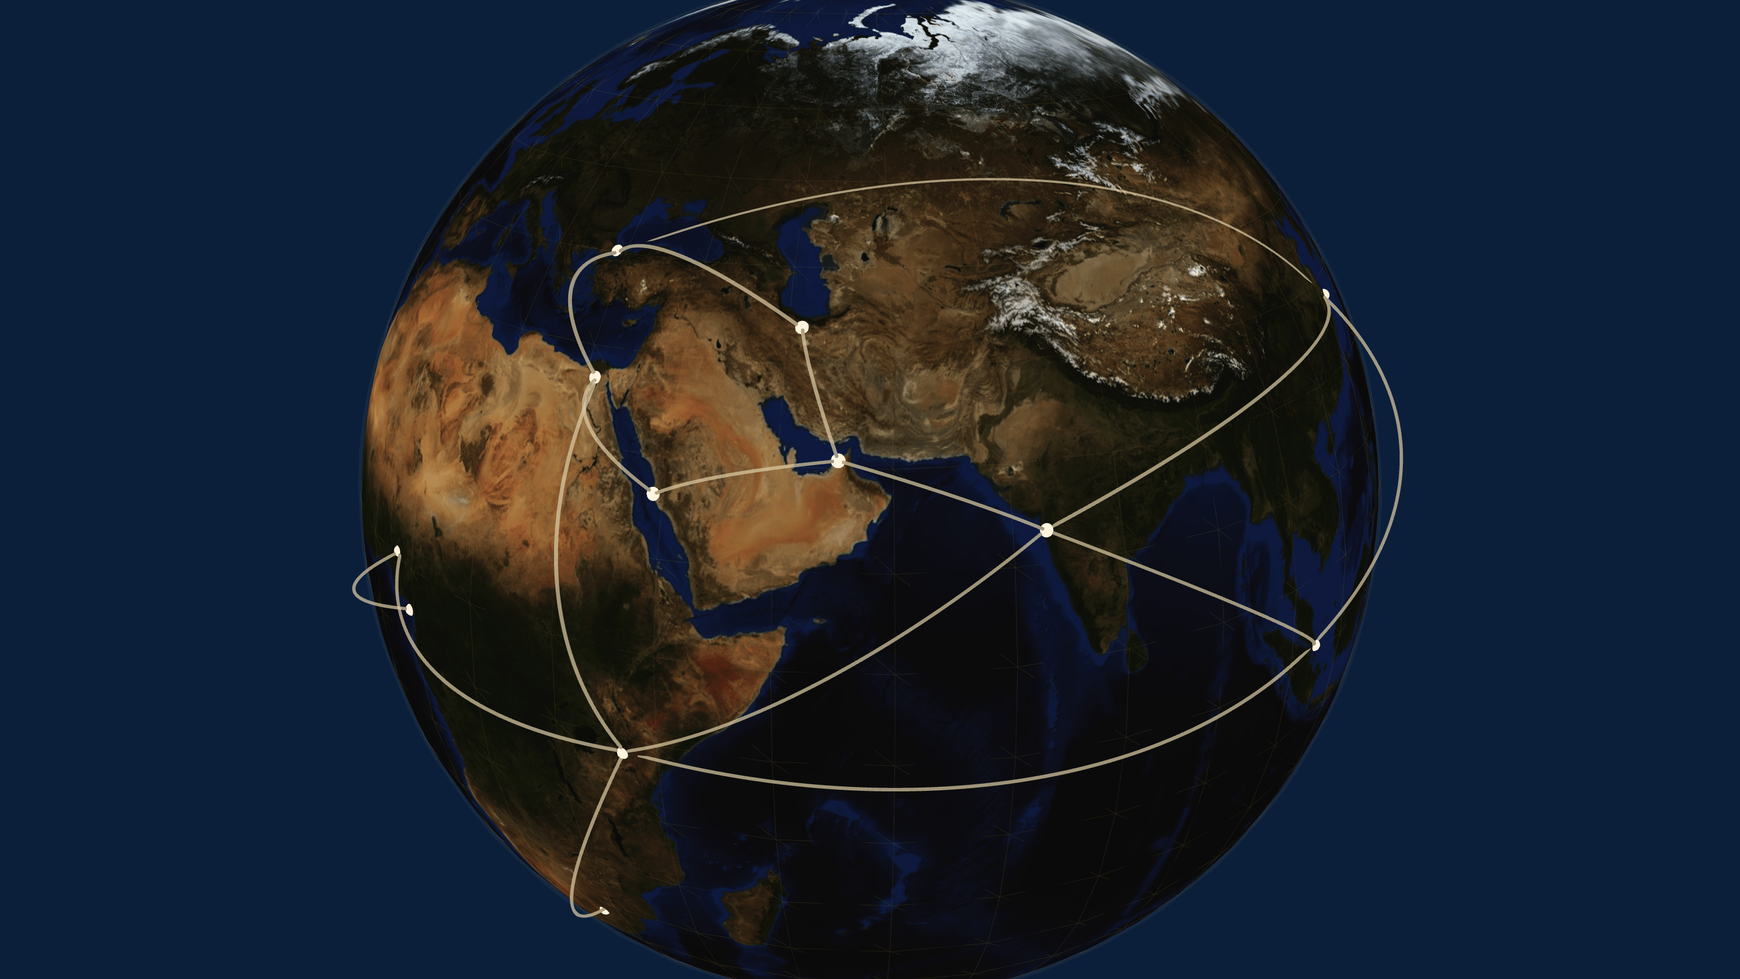
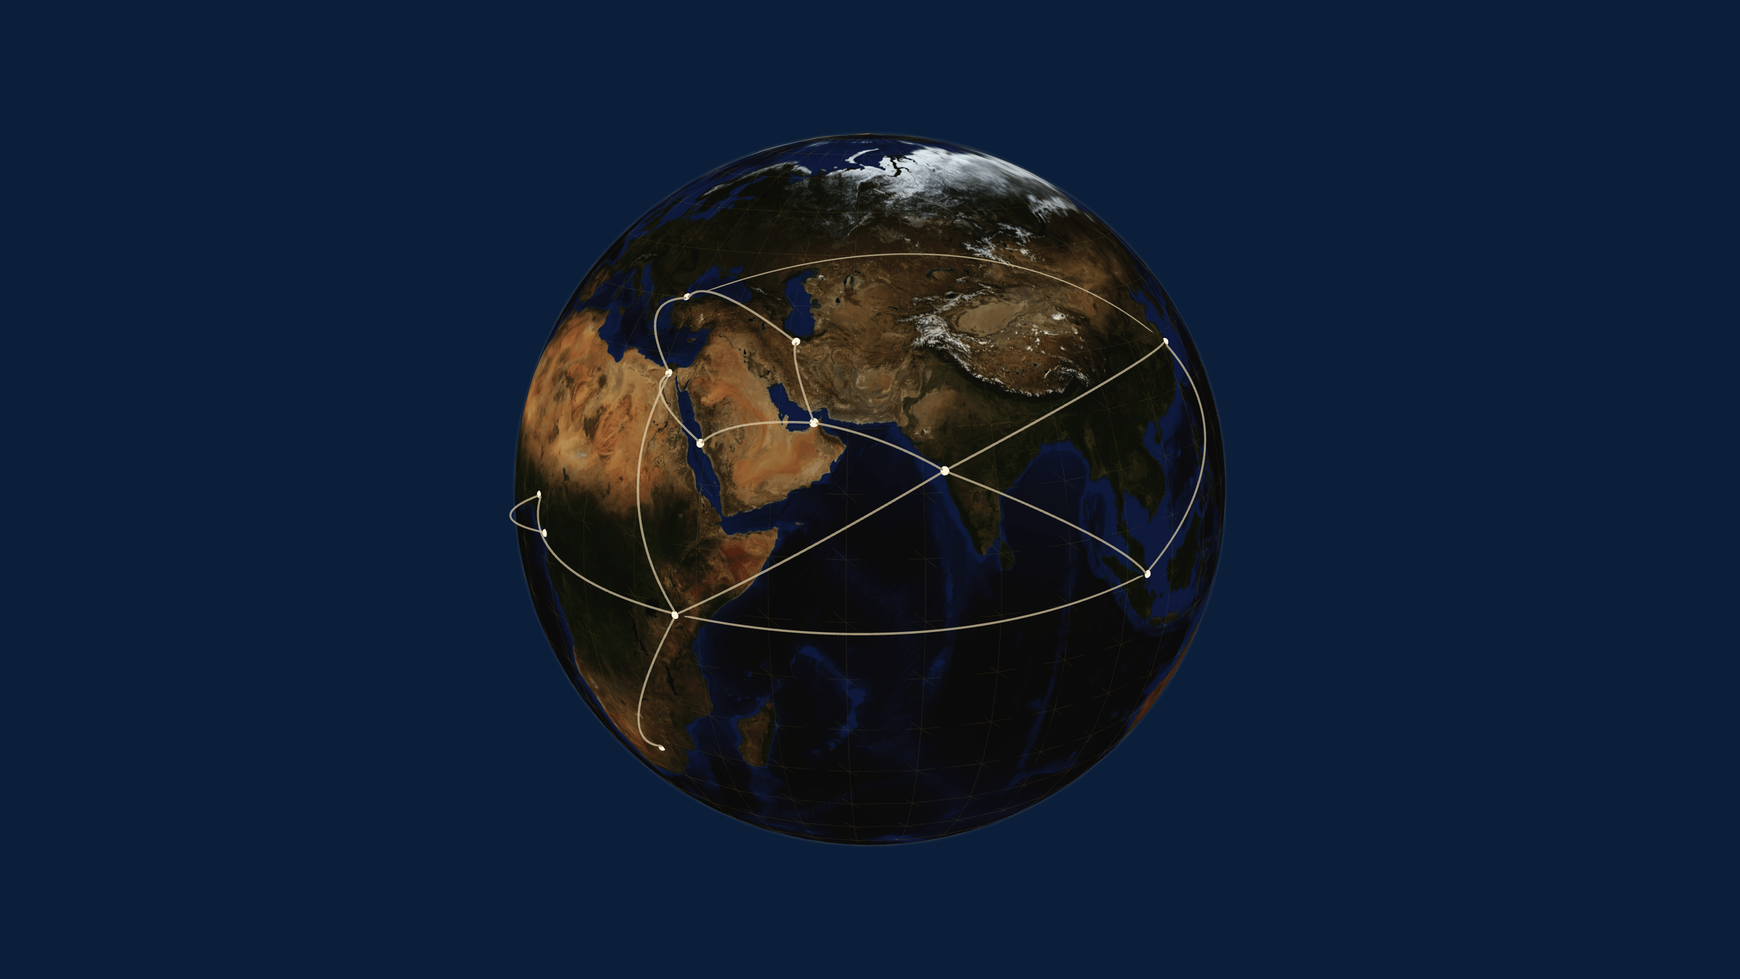
Hero: widen map framing to show the full network, remove animated pulse dots, narrow hero column
WIDER FRAMING: the previous export (baseZ 13, rotY -148) put Abuja, Douala,
Johannesburg and Shanghai at near-horizon grazing angles on the sphere -
mathematically "on canvas" but foreshortened almost to invisibility, which
read as "Africa is out of frame." Re-solved by minimizing the worst-case
angular distance from the camera-facing point across all 12 cities, then
picking the smallest camera distance that keeps every city's facing >=
~0.36 and clear of every edge (baseZ 18, rotY -153, rotX 17). Re-exported
the static image and recaptured every node/corridor coordinate from the
new render pass (geometry-only, texture-independent) so the SVG overlay
stays pixel-aligned with the baked image.

NO MORE ANIMATED DOTS: removed .hero-map-pulse entirely (a pair of small
dots per corridor animated along the line via SMIL <animateMotion>) -
this is what read as generic "leftover placeholder" motion. The corridor
arcs are gold 3D tube meshes baked directly into the export image itself,
retraced only as a static stroke in the SVG overlay - no dots anywhere
along a line's path now, only the glowing dot + halo at each city.

NARROWER HERO COLUMN: the wider network made a second, related problem
visible - the existing hero-copy overlap-safety logic (which hides any
label that would render under the headline text, to avoid illegible
overlap) was suppressing 12 of 16 labels, since the 700px-wide headline
column covered nearly half the viewport. Reviewed 4 layout options with
[…]

diff --git a/app/[locale]/HeroGlobe.tsx b/app/[locale]/HeroGlobe.tsx
@@ -14,14 +14,20 @@ import { t, tx, type Lang } from '@/lib/translations';
 //     into the image;
 //   - a percent-coordinate SVG overlay tracing the exact same corridor curves and node
 //     positions baked into the image (captured from the same export pass, not re-traced by
-//     eye), animating the traveling gold pulses (SMIL <animateMotion>, no JS per-frame cost)
-//     and a CSS-keyframe pulsing halo on each city dot.
+//     eye), plus a CSS-keyframe pulsing halo on each city dot.
 // Both overlays sit inside .hero-map-surface, which is sized with the same object-fit:cover
 // math as the image itself (see swaqar.css) so everything stays pixel-aligned at any viewport
 // size without a resize handler.
 //
-// Reduced motion: the CSS media query alone disables the SMIL pulses (display:none) and the
-// halo keyframe animation (swaqar.css) — no JS branching needed, unlike the old 3D version.
+// Production fix — no traveling dots: this used to also animate a pair of small dots per
+// corridor along the line (SMIL <animateMotion>), which read as generic "leftover placeholder"
+// motion rather than a deliberate design choice. The corridor arcs are gold 3D tube meshes
+// baked directly into the export image itself (not just this SVG retrace), so removing the
+// traveling dots leaves clean, static, continuous gold lines — the only markers left anywhere
+// are the glowing dot + pulsing halo exactly at each city's position, matching the reference.
+//
+// Reduced motion: the CSS media query disables the halo keyframe animation (swaqar.css) —
+// no JS branching needed, unlike the old 3D version.
 //
 // Label suppression: unlike the old live-projected version, label positions are fixed percent
 // constants (they don't need per-frame recomputation), but .hero-body is normal in-flow text
@@ -37,47 +43,53 @@ interface NodeDef {
 }
 
 // Percent-of-image coordinates captured directly from the static export's render pass (same
-// camera/rotation used to bake the image) — not eyeballed. See export config in the
-// implementation summary: fov 40, baseZ 13, rotY -148deg, rotX 23deg, 3200x1800.
+// camera/rotation used to bake the image) — not eyeballed. Re-captured for the wide-framing fix:
+// fov 40, baseZ 18, rotY -153deg, rotX 17deg, 3200x1800 (previous baseZ 13/rotY -148 pulled
+// Abuja/Douala/Johannesburg/Shanghai too close to the sphere's limb — near-horizon grazing
+// angles that read as "out of frame" even though their raw 2D projection was technically
+// on-canvas. Re-solved by minimizing the worst-case angular distance from camera-facing point
+// across all 12 cities, then picking the smallest baseZ that keeps every city's facing >= ~0.36
+// and >=18% margin from every edge, so the whole network — Europe through East Asia — reads at
+// a glance without any city sitting in the foreshortened, hard-to-read edge of the globe.
 const NODE_DEFS: NodeDef[] = [
-  { id: 'istanbul', xPct: 35.585, yPct: 25.764, kind: 'city' },
-  { id: 'cairo', xPct: 34.305, yPct: 38.633, kind: 'city' },
-  { id: 'tehran', xPct: 46.125, yPct: 33.569, kind: 'city' },
-  { id: 'dubai', xPct: 48.178, yPct: 47.085, kind: 'city' },
-  { id: 'mumbai', xPct: 60.095, yPct: 54.140, kind: 'city' },
-  { id: 'nairobi', xPct: 35.880, yPct: 76.753, kind: 'city' },
-  { id: 'shanghai', xPct: 76.021, yPct: 30.166, kind: 'city' },
-  { id: 'singapore', xPct: 75.465, yPct: 65.820, kind: 'city' },
-  { id: 'jeddah', xPct: 37.611, yPct: 50.439, kind: 'city' },
-  { id: 'abuja', xPct: 23.045, yPct: 56.260, kind: 'city' },
-  { id: 'douala', xPct: 23.711, yPct: 62.224, kind: 'city' },
-  { id: 'johannesburg', xPct: 34.838, yPct: 92.735, kind: 'city' },
-  { id: 'europe', xPct: 37.370, yPct: 34.499, kind: 'region' },
-  { id: 'middleEast', xPct: 50.000, yPct: 43.457, kind: 'region' },
-  { id: 'asia', xPct: 64.604, yPct: 41.543, kind: 'region' },
-  { id: 'africa', xPct: 31.801, yPct: 60.291, kind: 'region' },
+  { id: 'istanbul', xPct: 39.554, yPct: 30.441, kind: 'city' },
+  { id: 'cairo', xPct: 38.504, yPct: 38.180, kind: 'city' },
+  { id: 'tehran', xPct: 45.775, yPct: 35.006, kind: 'city' },
+  { id: 'dubai', xPct: 46.792, yPct: 43.203, kind: 'city' },
+  { id: 'mumbai', xPct: 54.281, yPct: 48.104, kind: 'city' },
+  { id: 'nairobi', xPct: 38.868, yPct: 62.736, kind: 'city' },
+  { id: 'shanghai', xPct: 66.894, yPct: 34.956, kind: 'city' },
+  { id: 'singapore', xPct: 65.867, yPct: 58.575, kind: 'city' },
+  { id: 'jeddah', xPct: 40.296, yPct: 45.299, kind: 'city' },
+  { id: 'abuja', xPct: 31.112, yPct: 50.505, kind: 'city' },
+  { id: 'douala', xPct: 31.410, yPct: 54.426, kind: 'city' },
+  { id: 'johannesburg', xPct: 38.104, yPct: 76.220, kind: 'city' },
+  { id: 'europe', xPct: 40.443, yPct: 35.609, kind: 'region' },
+  { id: 'middleEast', xPct: 47.974, yPct: 41.022, kind: 'region' },
+  { id: 'asia', xPct: 57.460, yPct: 40.547, kind: 'region' },
+  { id: 'africa', xPct: 36.581, yPct: 51.837, kind: 'region' },
 ];
 
 // Each corridor's exact curve, sampled at 21 points from the same export pass (percent-of-
 // image [x,y] pairs) — the SVG path below draws straight segments between them, which at this
 // sample density reproduces the original quadratic-bezier arc with no visible faceting.
 const CORRIDOR_PATHS: Record<string, [number, number][]> = {
-  istanbul_cairo: [[35.585,25.764],[35.274,25.842],[34.962,25.954],[34.649,26.106],[34.337,26.309],[34.027,26.574],[33.725,26.919],[33.437,27.366],[33.174,27.946],[32.957,28.685],[32.813,29.586],[32.759,30.598],[32.792,31.644],[32.891,32.667],[33.036,33.645],[33.211,34.575],[33.407,35.46],[33.618,36.304],[33.84,37.112],[34.07,37.887],[34.305,38.633]],
-  cairo_nairobi: [[34.305,38.633],[33.887,40.36],[33.49,42.181],[33.122,44.098],[32.788,46.111],[32.498,48.217],[32.26,50.409],[32.084,52.671],[31.98,54.983],[31.955,57.315],[32.013,59.631],[32.155,61.893],[32.377,64.068],[32.67,66.128],[33.024,68.055],[33.429,69.84],[33.873,71.483],[34.347,72.987],[34.844,74.361],[35.357,75.613],[35.88,76.753]],
-  istanbul_tehran: [[35.585,25.764],[35.724,25.559],[35.895,25.383],[36.103,25.243],[36.354,25.145],[36.656,25.103],[37.018,25.128],[37.448,25.237],[37.952,25.444],[38.532,25.764],[39.182,26.202],[39.886,26.751],[40.621,27.391],[41.368,28.099],[42.109,28.851],[42.834,29.629],[43.539,30.42],[44.221,31.214],[44.878,32.006],[45.513,32.792],[46.125,33.569]],
-  tehran_dubai: [[46.125,33.569],[46.134,33.8],[46.148,34.066],[46.169,34.374],[46.198,34.733],[46.237,35.154],[46.29,35.653],[46.359,36.249],[46.45,36.967],[46.568,37.825],[46.713,38.811],[46.877,39.862],[47.047,40.9],[47.213,41.878],[47.372,42.784],[47.523,43.624],[47.666,44.404],[47.803,45.135],[47.933,45.821],[48.058,46.47],[48.178,47.085]],
-  dubai_mumbai: [[48.178,47.085],[48.693,47.346],[49.238,47.626],[49.818,47.928],[50.434,48.253],[51.089,48.604],[51.786,48.982],[52.524,49.39],[53.297,49.825],[54.092,50.282],[54.889,50.749],[55.661,51.211],[56.385,51.654],[57.046,52.069],[57.642,52.451],[58.174,52.8],[58.649,53.118],[59.072,53.408],[59.45,53.673],[59.79,53.916],[60.095,54.14]],
-  nairobi_mumbai: [[35.88,76.753],[36.637,76.564],[37.467,76.291],[38.376,75.923],[39.367,75.448],[40.444,74.853],[41.607,74.128],[42.854,73.264],[44.178,72.257],[45.567,71.108],[47.002,69.826],[48.465,68.427],[49.934,66.931],[51.386,65.364],[52.805,63.751],[54.176,62.114],[55.49,60.474],[56.74,58.845],[57.925,57.241],[59.043,55.671],[60.095,54.14]],
-  nairobi_singapore: [[35.88,76.753],[37.871,77.682],[39.972,78.524],[42.179,79.258],[44.485,79.863],[46.879,80.314],[49.341,80.586],[51.848,80.659],[54.368,80.514],[56.866,80.14],[59.301,79.538],[61.637,78.716],[63.84,77.695],[65.888,76.502],[67.763,75.167],[69.459,73.725],[70.979,72.204],[72.328,70.632],[73.517,69.033],[74.558,67.424],[75.465,65.82]],
-  mumbai_shanghai: [[60.095,54.14],[61.663,52.629],[63.222,51.083],[64.761,49.508],[66.267,47.911],[67.726,46.304],[69.118,44.698],[70.427,43.11],[71.632,41.559],[72.715,40.064],[73.662,38.644],[74.463,37.317],[75.115,36.096],[75.62,34.988],[75.987,33.995],[76.227,33.116],[76.356,32.344],[76.386,31.672],[76.332,31.091],[76.206,30.592],[76.021,30.166]],
-  mumbai_singapore: [[60.095,54.14],[61.43,55.029],[62.769,55.927],[64.105,56.831],[65.428,57.736],[66.728,58.633],[67.988,59.515],[69.194,60.371],[70.326,61.189],[71.367,61.957],[72.299,62.662],[73.11,63.296],[73.795,63.852],[74.352,64.328],[74.788,64.726],[75.112,65.052],[75.336,65.311],[75.472,65.51],[75.532,65.657],[75.526,65.758],[75.465,65.82]],
-  shanghai_singapore: [[76.021,30.166],[76.737,31.448],[77.423,32.818],[78.07,34.28],[78.669,35.841],[79.207,37.503],[79.673,39.266],[80.052,41.126],[80.33,43.074],[80.495,45.094],[80.537,47.162],[80.454,49.252],[80.247,51.337],[79.924,53.391],[79.497,55.393],[78.979,57.328],[78.384,59.188],[77.724,60.967],[77.011,62.664],[76.255,64.281],[75.465,65.82]],
-  istanbul_shanghai: [[35.585,25.764],[37.771,24.38],[40.066,23.076],[42.462,21.874],[44.949,20.8],[47.512,19.883],[50.129,19.151],[52.77,18.632],[55.401,18.348],[57.981,18.317],[60.471,18.543],[62.832,19.02],[65.033,19.73],[67.051,20.646],[68.875,21.736],[70.502,22.965],[71.938,24.3],[73.194,25.712],[74.282,27.173],[75.22,28.663],[76.021,30.166]],
-  cairo_jeddah: [[34.305,38.633],[34.148,38.894],[34.0,39.186],[33.865,39.513],[33.746,39.883],[33.648,40.304],[33.579,40.79],[33.551,41.356],[33.579,42.019],[33.685,42.79],[33.885,43.655],[34.174,44.557],[34.524,45.433],[34.905,46.246],[35.299,46.991],[35.695,47.675],[36.089,48.306],[36.478,48.892],[36.862,49.439],[37.24,49.953],[37.611,50.439]],
-  jeddah_dubai: [[37.611,50.439],[37.802,50.302],[38.023,50.157],[38.279,50.003],[38.577,49.837],[38.924,49.659],[39.33,49.469],[39.804,49.264],[40.353,49.045],[40.981,48.817],[41.677,48.586],[42.415,48.36],[43.166,48.149],[43.903,47.958],[44.611,47.787],[45.286,47.635],[45.927,47.499],[46.533,47.378],[47.109,47.27],[47.657,47.173],[48.178,47.085]],
-  douala_abuja: [[23.711,62.224],[23.351,62.174],[22.99,62.112],[22.628,62.036],[22.265,61.941],[21.902,61.824],[21.541,61.677],[21.184,61.486],[20.84,61.228],[20.531,60.856],[20.343,60.295],[20.397,59.651],[20.602,59.099],[20.866,58.631],[21.154,58.216],[21.457,57.838],[21.768,57.487],[22.083,57.158],[22.402,56.845],[22.723,56.547],[23.045,56.26]],
-  abuja_nairobi: [[23.045,56.26],[22.911,57.419],[22.828,58.617],[22.803,59.854],[22.849,61.127],[22.975,62.43],[23.194,63.757],[23.518,65.096],[23.956,66.431],[24.515,67.743],[25.196,69.009],[25.991,70.209],[26.889,71.324],[27.874,72.342],[28.928,73.257],[30.033,74.068],[31.175,74.778],[32.339,75.395],[33.517,75.924],[34.699,76.374],[35.88,76.753]],
-  nairobi_johannesburg: [[35.88,76.753],[35.434,78.418],[35.004,80.072],[34.595,81.709],[34.212,83.315],[33.862,84.876],[33.551,86.374],[33.288,87.785],[33.081,89.084],[32.937,90.244],[32.861,91.239],[32.854,92.055],[32.913,92.684],[33.032,93.135],[33.201,93.42],[33.412,93.559],[33.656,93.573],[33.926,93.482],[34.216,93.302],[34.521,93.049],[34.838,92.735]],
+  istanbul_cairo: [[39.554,30.441],[39.349,30.445],[39.143,30.469],[38.937,30.518],[38.732,30.598],[38.529,30.716],[38.329,30.882],[38.138,31.113],[37.961,31.426],[37.811,31.842],[37.705,32.366],[37.654,32.972],[37.656,33.612],[37.701,34.25],[37.776,34.872],[37.871,35.471],[37.981,36.049],[38.102,36.607],[38.23,37.147],[38.365,37.671],[38.504,38.18]],
+  cairo_nairobi: [[38.504,38.18],[38.204,39.156],[37.917,40.189],[37.648,41.283],[37.4,42.439],[37.179,43.659],[36.99,44.941],[36.839,46.28],[36.731,47.669],[36.673,49.094],[36.668,50.537],[36.716,51.978],[36.816,53.396],[36.964,54.775],[37.155,56.101],[37.382,57.367],[37.639,58.568],[37.92,59.703],[38.222,60.775],[38.539,61.784],[38.868,62.736]],
+  istanbul_tehran: [[39.554,30.441],[39.626,30.26],[39.716,30.097],[39.827,29.958],[39.964,29.847],[40.13,29.772],[40.331,29.741],[40.572,29.764],[40.858,29.853],[41.189,30.017],[41.563,30.261],[41.971,30.582],[42.402,30.969],[42.844,31.407],[43.287,31.881],[43.725,32.38],[44.156,32.894],[44.576,33.418],[44.986,33.946],[45.386,34.476],[45.775,35.006]],
+  tehran_dubai: [[45.775,35.006],[45.747,35.089],[45.722,35.193],[45.7,35.323],[45.683,35.483],[45.672,35.681],[45.669,35.927],[45.677,36.235],[45.699,36.622],[45.741,37.103],[45.805,37.677],[45.89,38.313],[45.988,38.96],[46.091,39.588],[46.195,40.184],[46.298,40.748],[46.401,41.284],[46.501,41.794],[46.6,42.283],[46.696,42.751],[46.792,43.203]],
+  dubai_mumbai: [[46.792,43.203],[47.07,43.289],[47.366,43.39],[47.684,43.507],[48.024,43.643],[48.389,43.801],[48.782,43.985],[49.204,44.199],[49.654,44.445],[50.126,44.722],[50.61,45.028],[51.092,45.355],[51.557,45.69],[51.996,46.026],[52.405,46.356],[52.782,46.676],[53.129,46.984],[53.45,47.281],[53.748,47.566],[54.024,47.84],[54.281,48.104]],
+  nairobi_mumbai: [[38.868,62.736],[39.325,62.375],[39.825,61.971],[40.372,61.519],[40.969,61.015],[41.617,60.455],[42.319,59.838],[43.074,59.162],[43.878,58.429],[44.726,57.643],[45.61,56.811],[46.52,55.943],[47.443,55.05],[48.367,54.143],[49.284,53.234],[50.184,52.331],[51.061,51.442],[51.912,50.572],[52.732,49.724],[53.522,48.901],[54.281,48.104]],
+  nairobi_singapore: [[38.868,62.736],[40.091,63.183],[41.382,63.592],[42.738,63.956],[44.16,64.265],[45.642,64.51],[47.177,64.679],[48.754,64.765],[50.359,64.758],[51.974,64.654],[53.578,64.449],[55.15,64.147],[56.671,63.752],[58.124,63.274],[59.496,62.724],[60.781,62.116],[61.974,61.461],[63.076,60.77],[64.089,60.053],[65.018,59.319],[65.867,58.575]],
+  mumbai_shanghai: [[54.281,48.104],[55.275,47.167],[56.271,46.222],[57.266,45.272],[58.252,44.323],[59.222,43.38],[60.168,42.452],[61.08,41.548],[61.946,40.677],[62.757,39.85],[63.501,39.078],[64.17,38.368],[64.76,37.728],[65.268,37.159],[65.697,36.661],[66.05,36.233],[66.333,35.869],[66.552,35.566],[66.714,35.316],[66.826,35.115],[66.894,34.956]],
+  mumbai_singapore: [[54.281,48.104],[55.098,48.663],[55.925,49.239],[56.759,49.833],[57.596,50.443],[58.431,51.067],[59.257,51.702],[60.066,52.343],[60.848,52.985],[61.592,53.62],[62.287,54.238],[62.923,54.834],[63.495,55.398],[64,55.926],[64.436,56.416],[64.808,56.866],[65.119,57.277],[65.374,57.65],[65.581,57.99],[65.743,58.297],[65.867,58.575]],
+  shanghai_singapore: [[66.894,34.956],[67.296,35.771],[67.678,36.641],[68.034,37.573],[68.358,38.568],[68.645,39.631],[68.886,40.762],[69.074,41.96],[69.2,43.219],[69.258,44.53],[69.243,45.882],[69.154,47.256],[68.993,48.636],[68.763,50.006],[68.473,51.352],[68.129,52.664],[67.74,53.936],[67.313,55.164],[66.855,56.346],[66.371,57.483],[65.867,58.575]],
+  istanbul_shanghai: [[39.554,30.441],[40.906,29.558],[42.318,28.736],[43.788,27.99],[45.314,27.333],[46.889,26.784],[48.504,26.359],[50.148,26.074],[51.803,25.944],[53.452,25.98],[55.073,26.185],[56.646,26.559],[58.152,27.091],[59.575,27.768],[60.906,28.57],[62.14,29.478],[63.275,30.471],[64.313,31.531],[65.259,32.641],[66.117,33.786],[66.894,34.956]],
+  cairo_jeddah: [[38.504,38.18],[38.392,38.275],[38.286,38.388],[38.188,38.523],[38.099,38.683],[38.023,38.876],[37.963,39.109],[37.928,39.393],[37.926,39.742],[37.971,40.168],[38.072,40.667],[38.23,41.212],[38.428,41.762],[38.649,42.291],[38.881,42.791],[39.117,43.263],[39.355,43.709],[39.592,44.133],[39.829,44.538],[40.063,44.926],[40.296,45.299]],
+  jeddah_dubai: [[40.296,45.299],[40.396,45.12],[40.515,44.937],[40.655,44.752],[40.82,44.563],[41.016,44.373],[41.246,44.181],[41.519,43.991],[41.84,43.807],[42.21,43.633],[42.626,43.48],[43.073,43.352],[43.534,43.255],[43.993,43.186],[44.44,43.143],[44.872,43.12],[45.287,43.114],[45.685,43.122],[46.068,43.14],[46.436,43.168],[46.792,43.203]],
+  douala_abuja: [[31.41,54.426],[31.183,54.341],[30.955,54.249],[30.728,54.148],[30.502,54.035],[30.276,53.909],[30.053,53.763],[29.834,53.59],[29.625,53.378],[29.441,53.097],[29.336,52.715],[29.383,52.312],[29.522,51.99],[29.696,51.728],[29.884,51.502],[30.081,51.302],[30.283,51.12],[30.488,50.952],[30.695,50.794],[30.903,50.646],[31.112,50.505]],
+  abuja_nairobi: [[31.112,50.505],[31.013,51.113],[30.946,51.743],[30.917,52.397],[30.93,53.073],[30.994,53.77],[31.114,54.486],[31.299,55.217],[31.554,55.957],[31.883,56.696],[32.287,57.424],[32.762,58.132],[33.302,58.808],[33.898,59.447],[34.539,60.044],[35.216,60.596],[35.919,61.103],[36.641,61.569],[37.376,61.994],[38.12,62.382],[38.868,62.736]],
+  nairobi_johannesburg: [[38.868,62.736],[38.554,63.791],[38.251,64.853],[37.962,65.918],[37.692,66.981],[37.443,68.036],[37.221,69.074],[37.031,70.084],[36.88,71.05],[36.772,71.955],[36.711,72.784],[36.699,73.523],[36.734,74.161],[36.812,74.699],[36.927,75.139],[37.074,75.49],[37.246,75.76],[37.439,75.959],[37.649,76.097],[37.871,76.181],[38.104,76.22]],
 };
 
 function nodeName(id: string, lang: Lang): string {
@@ -177,20 +189,6 @@ export default function HeroGlobe({ lang }: { lang: Lang }) {
             <g key={n.id}>
               <circle className="hero-map-halo" cx={n.xPct} cy={n.yPct} r="0.5" />
               <circle className="hero-map-dot" cx={n.xPct} cy={n.yPct} r="0.35" />
-            </g>
-          ))}
-          {Object.keys(CORRIDOR_PATHS).map((key) => (
-            <g key={key}>
-              <circle className="hero-map-pulse" r="0.45">
-                <animateMotion dur={`${7 + (key.length % 5)}s`} repeatCount="indefinite" begin="0s">
-                  <mpath href={`#corridor-${key}`} />
-                </animateMotion>
-              </circle>
-              <circle className="hero-map-pulse" r="0.45" opacity="0.7">
-                <animateMotion dur={`${7 + (key.length % 5)}s`} repeatCount="indefinite" begin={`${3.5 + (key.length % 3)}s`}>
-                  <mpath href={`#corridor-${key}`} />
-                </animateMotion>
-              </circle>
             </g>
           ))}
         </svg>

diff --git a/app/swaqar.css b/app/swaqar.css
@@ -94,8 +94,11 @@ nav.scrolled{box-shadow:0 2px 24px rgba(11,31,58,.08)}
 }
 .hero-map-img{position:absolute;inset:0;width:100%;height:100%;display:block;object-fit:cover}
 .hero-map-svg{position:absolute;inset:0;width:100%;height:100%;pointer-events:none}
+/* Production fix — removed .hero-map-pulse (a pair of small dots per corridor animated along
+   the line via SMIL <animateMotion>): read as generic leftover placeholder motion rather than
+   a deliberate design choice. The gold corridor arcs are 3D tube meshes baked directly into the
+   export image, retraced here only as a static, non-animated stroke — no dots along any line. */
 .hero-map-corridor{fill:none;stroke:var(--gold);stroke-width:.12;stroke-opacity:.5;vector-effect:non-scaling-stroke}
-.hero-map-pulse{fill:#fff4de}
 .hero-map-dot{fill:#fff4de}
 .hero-map-halo{fill:var(--gold);opacity:.35;animation:heroMapHaloPulse 3.2s ease-in-out infinite}
 .hero-map-halo:nth-of-type(3n+1){animation-delay:-.6s}
@@ -103,7 +106,6 @@ nav.scrolled{box-shadow:0 2px 24px rgba(11,31,58,.08)}
 @keyframes heroMapHaloPulse{0%,100%{opacity:.22;transform:scale(1)}50%{opacity:.5;transform:scale(1.35)}}
 @media(prefers-reduced-motion:reduce){
   .hero-map-halo{animation:none;opacity:.3}
-  .hero-map-pulse{display:none}
 }
 .hero-map-label-layer{position:absolute;inset:0;pointer-events:none;transition:opacity .3s ease}
 .hero-node-label{position:absolute;transform:translate(10px,-52%);font-family:var(--sans);font-size:11px;font-weight:500;letter-spacing:.1em;text-transform:uppercase;color:#f5f1e4;white-space:nowrap;text-shadow:0 0 3px rgba(0,0,0,.95),0 0 7px rgba(0,0,0,.85),0 1px 2px rgba(0,0,0,1);transition:opacity .25s ease}
@@ -112,10 +114,18 @@ nav.scrolled{box-shadow:0 2px 24px rgba(11,31,58,.08)}
 /* Scrim: keeps the map's busiest area from ever competing with the hero copy for legibility —
    dark toward the copy, fading to transparent toward the open map. .hero-body sits on the LEFT
    in LTR and the RIGHT under RTL (see that rule below), so the scrim mirrors to match. Lives
-   inside .hero (not the fixed map layer) so it scrolls away together with the text it protects. */
-.hero-text-scrim{position:absolute;inset:0;z-index:1;pointer-events:none;background:linear-gradient(100deg,rgba(8,17,36,.74) 0%,rgba(8,17,36,.54) 30%,rgba(8,17,36,.24) 52%,rgba(8,17,36,0) 68%),linear-gradient(to bottom,rgba(6,15,34,.30) 0%,rgba(6,15,34,0) 14%,rgba(6,15,34,0) 78%,rgba(6,15,34,.45) 100%)}
-html[dir="rtl"] .hero-text-scrim{background:linear-gradient(260deg,rgba(8,17,36,.74) 0%,rgba(8,17,36,.54) 30%,rgba(8,17,36,.24) 52%,rgba(8,17,36,0) 68%),linear-gradient(to bottom,rgba(6,15,34,.30) 0%,rgba(6,15,34,0) 14%,rgba(6,15,34,0) 78%,rgba(6,15,34,.45) 100%)}
-.hero-body{position:relative;z-index:2;padding:0 60px;max-width:700px}
+   inside .hero (not the fixed map layer) so it scrolls away together with the text it protects.
+   Production fix — wide-framing fix: .hero-body's max-width was narrowed 700px -> 440px (copy
+   itself untouched — same wording/weight/type, just a narrower column) so the widened corridor
+   network (see HeroGlobe.tsx) has room to sit clear of the headline's overlap-safety zone.
+   Narrower column, narrower gradient (30% falloff moved to 22%/38%/50%) to match. Verified
+   against 3 alternatives (a taller/shorter column, a bottom-corner card, an even narrower 360px
+   column) — 440px was the founder's pick: it clears 13 of 16 labels (misses only Abuja/Douala/
+   the Africa region label, the three smallest markers) without any button/eyebrow text wrapping,
+   which the narrower alternative caused. */
+.hero-text-scrim{position:absolute;inset:0;z-index:1;pointer-events:none;background:linear-gradient(100deg,rgba(8,17,36,.74) 0%,rgba(8,17,36,.54) 22%,rgba(8,17,36,.2) 38%,rgba(8,17,36,0) 50%),linear-gradient(to bottom,rgba(6,15,34,.30) 0%,rgba(6,15,34,0) 14%,rgba(6,15,34,0) 78%,rgba(6,15,34,.45) 100%)}
+html[dir="rtl"] .hero-text-scrim{background:linear-gradient(260deg,rgba(8,17,36,.74) 0%,rgba(8,17,36,.54) 22%,rgba(8,17,36,.2) 38%,rgba(8,17,36,0) 50%),linear-gradient(to bottom,rgba(6,15,34,.30) 0%,rgba(6,15,34,0) 14%,rgba(6,15,34,0) 78%,rgba(6,15,34,.45) 100%)}
+.hero-body{position:relative;z-index:2;padding:0 60px;max-width:440px}
 .eyebrow{display:inline-flex;align-items:center;gap:14px;margin-bottom:30px}
 .eyebrow-line{width:36px;height:1px;background:var(--gold)}
 .eyebrow-text{font-size:.58rem;letter-spacing:.42em;text-transform:uppercase;color:var(--gold);font-weight:500}
